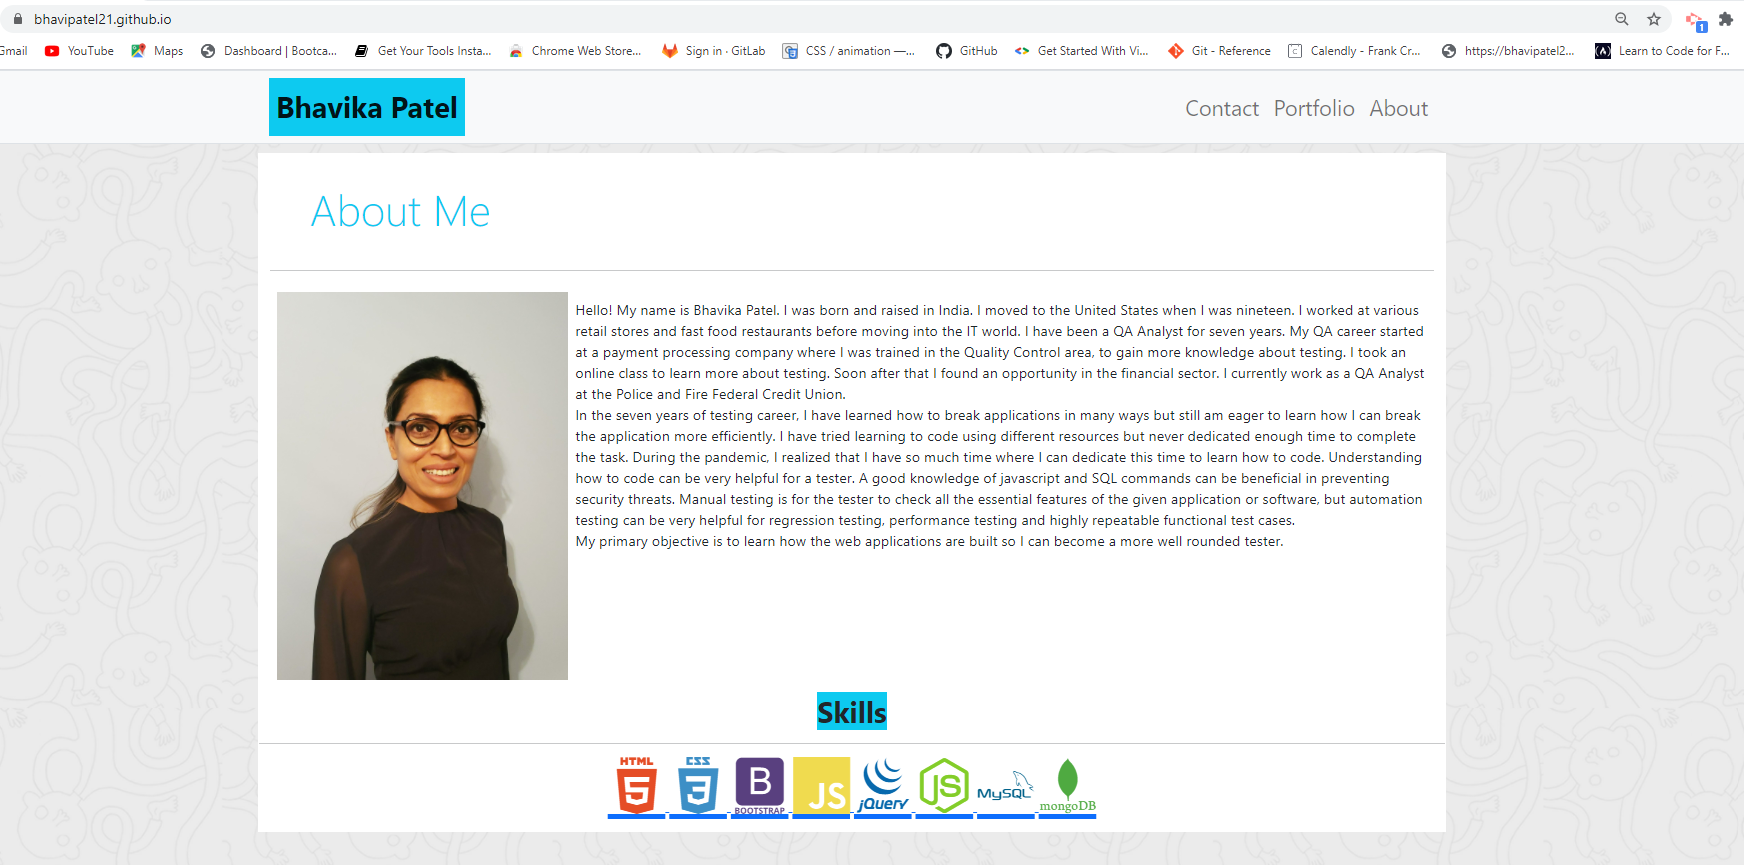
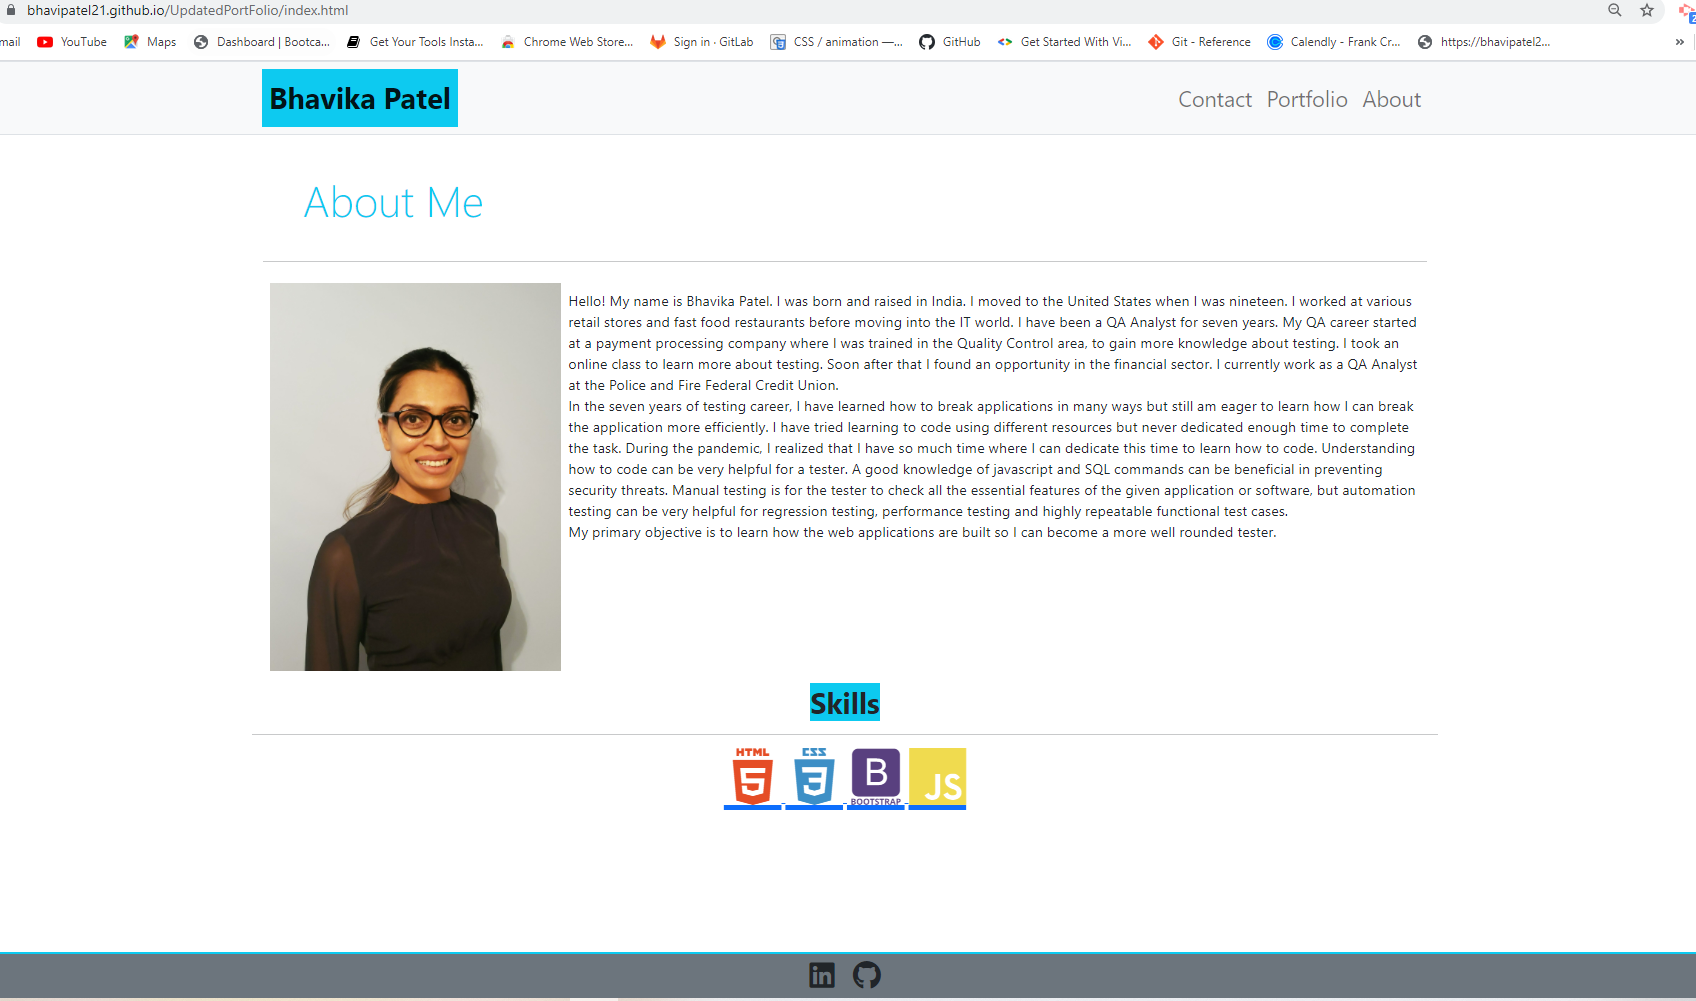
udpated readme

diff --git a/README.md b/README.md
@@ -15,7 +15,7 @@ As a user I should be able to render responsive porfolio web application on any 
 
 ## Installation
 
-Navigate to url : https://bhavipatel21.github.io/ 
+Navigate to url : https://bhavipatel21.github.io/UpdatedPortFolio/
 
 
 ## Usage 
@@ -23,7 +23,7 @@ The following image shows the web application's appearance and functionality:
 
 
 ![aboutme](./assets/aboutme_01.png)
-![aboutme]()
+![aboutme](./assets/portfolio_02.png)
 ![aboutme](./assets/contact_03.png)
 
 
